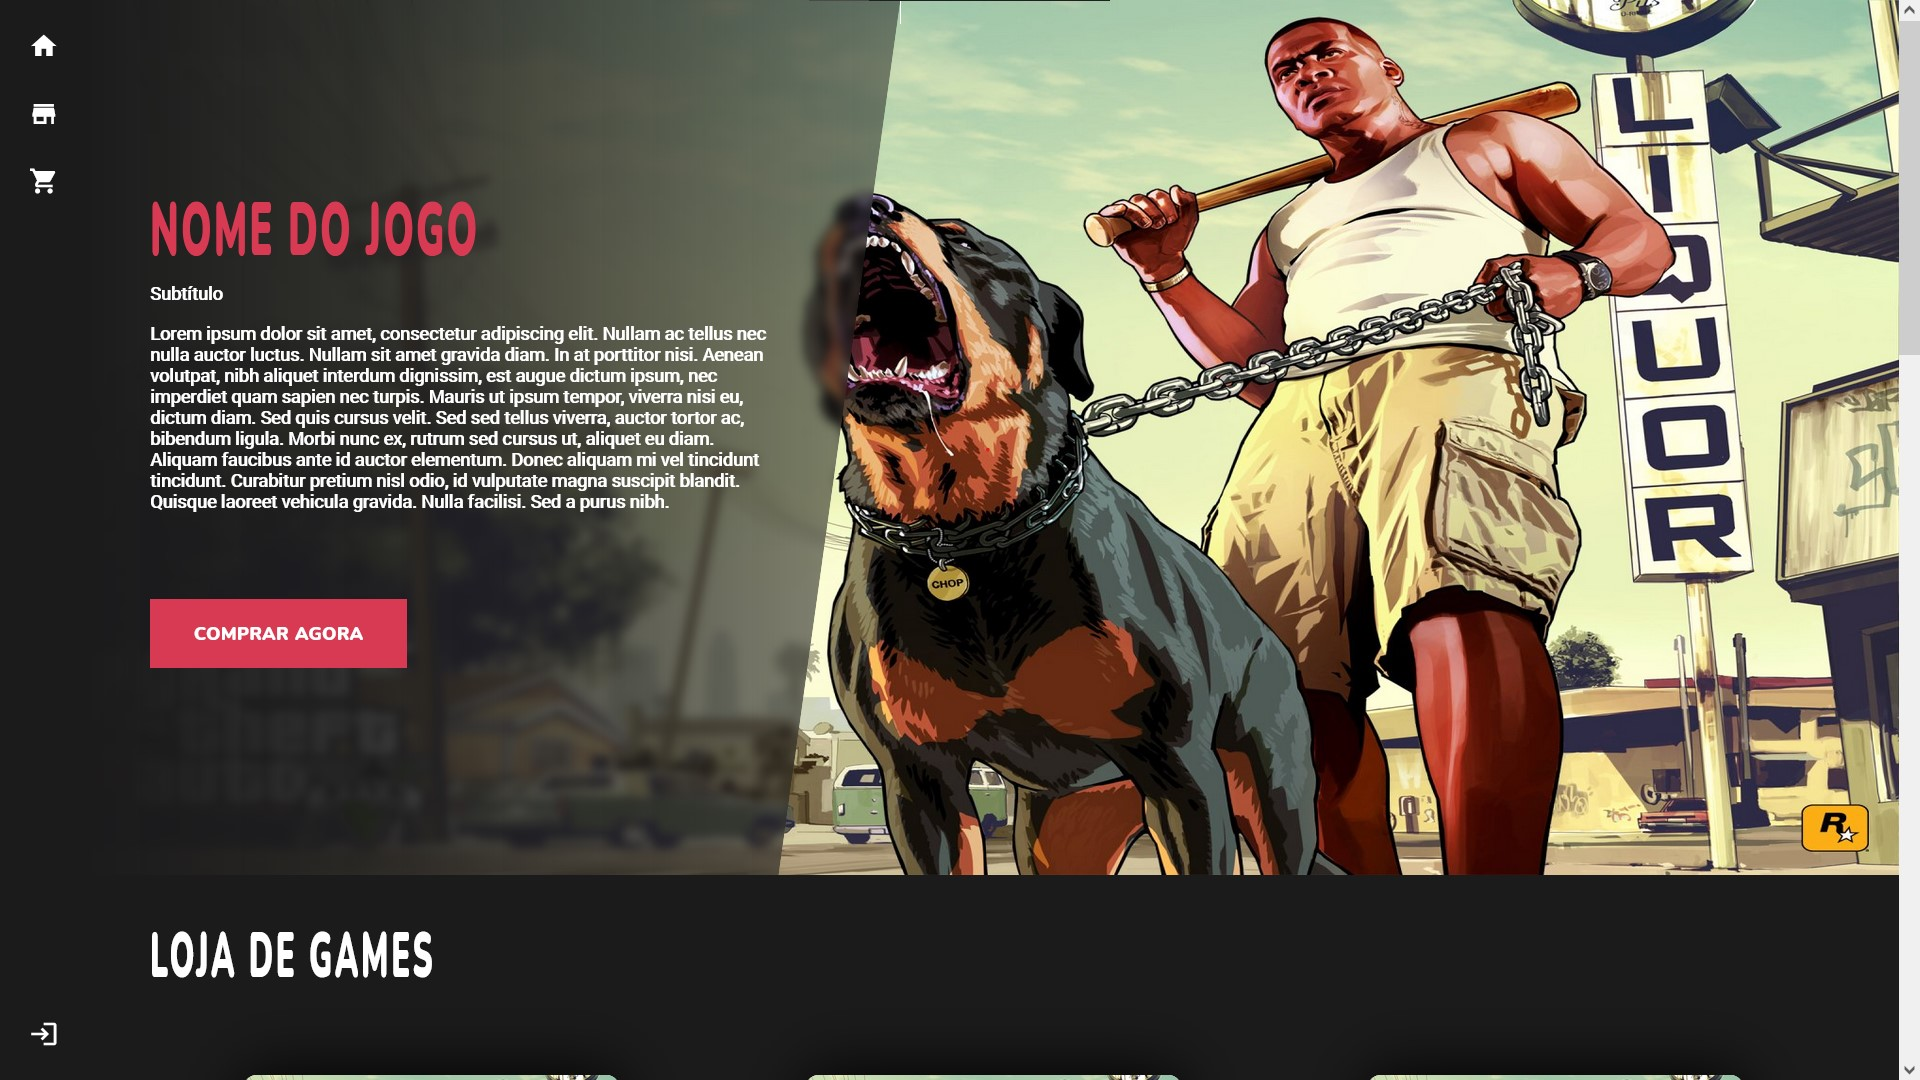
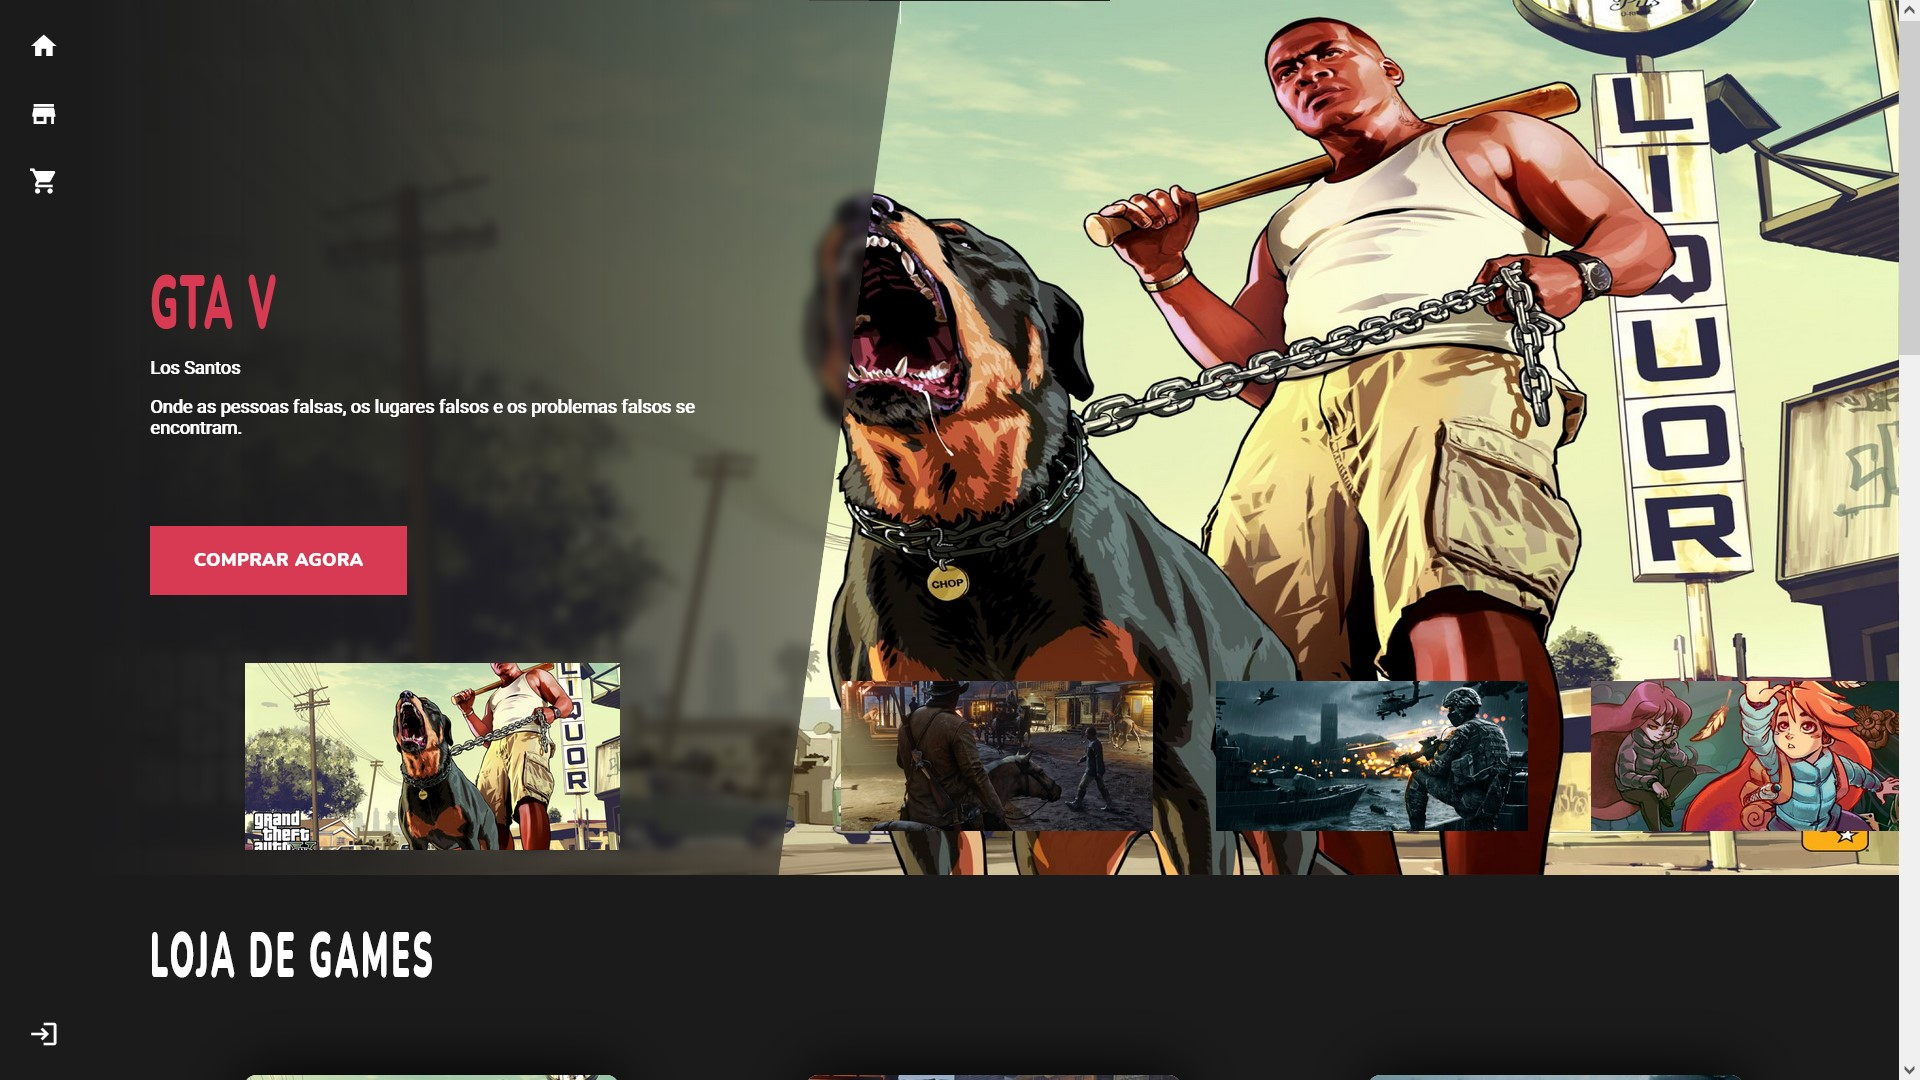
Início do carousel, imagem github atualizada

diff --git a/src/pages/HomePage/homePage.js b/src/pages/HomePage/homePage.js
@@ -2,6 +2,7 @@ import "./homePage.css";
 
 import ProductCard from "./components/productCard";
 import ItemContainer from "./components/itemContainer";
+import Carousel from "./components/carouselItem";
 
 import background_card1 from "../../assets/homePage_images/img1.jpg";
 import background_card2 from "../../assets/homePage_images/img2.jpg";
@@ -59,7 +60,55 @@ function HomePage() {
         <div className="session_2" />
 
         {/* Carousel */}
-        <div className="carousel" />
+        <div className="carousel">
+          <div className="carousel_selected">
+            <Carousel
+              isActive
+              img={background_card1}
+              isXbox
+              isPS
+              isPC
+            />
+          </div>
+          <div className="carousel_items">
+            <Carousel
+              img={background_card2}
+              isPC
+            />
+            <Carousel
+              img={background_card3}
+              isAndroid
+            />
+            <Carousel
+              img={background_card4}
+              isSwitch
+            />
+            <Carousel
+              img={background_card3}
+              isAndroid
+            />
+            <Carousel
+              img={background_card3}
+              isAndroid
+            />
+            <Carousel
+              img={background_card3}
+              isAndroid
+            />
+            <Carousel
+              img={background_card3}
+              isAndroid
+            />
+            <Carousel
+              img={background_card3}
+              isAndroid
+            />
+            <Carousel
+              img={background_card3}
+              isAndroid
+            />
+          </div>
+        </div>
 
       </div>
       {/* Fim do Cabeçalho */}

diff --git a/src/pages/HomePage/homePage.css b/src/pages/HomePage/homePage.css
@@ -61,6 +61,38 @@
     }
     /* Fim da sessão 2 */
 
+    /* Início do carousel */
+    .jumbotron .carousel {
+        width: 100%;
+        height: 150px;
+
+        overflow-x: hidden;
+
+        position: absolute;
+        display: grid;
+        grid-template-columns: 552.5px auto;
+        grid-template-rows: 150px;
+        grid-template-areas: 'selected items';
+
+        bottom: 20px;
+    }
+
+    .jumbotron .carousel .carousel_selected {
+        grid-area: selected;
+    
+        display: flex;
+        justify-content: center;
+    }
+
+    .jumbotron .carousel .carousel_items {
+        grid-area: items;
+        
+        display: flex;
+        align-items: center;
+        justify-content: space-evenly;
+    }
+    /* Fim do carousel */
+
 /* Fim do cabeçalho */
 
 /* Início do container 1 */

diff --git a/src/pages/HomePage/components/productCard.css b/src/pages/HomePage/components/productCard.css
@@ -85,8 +85,21 @@
 .product_card .card_body .body_platforms .platform_item {
     padding: 8px;
 
-    border-radius: 10px; 
-    border: 3px solid black;
+    color: white;
+    font-family: 'Roboto', sans-serif;
+    font-weight: bold;
+
+    background-color: #D83953;
+
+    border: none;
+    border-radius: 10px;
+
+    cursor: pointer;
+    transition: 0.2s;
+}
+
+.product_card .card_body .body_platforms .platform_item:hover {
+    box-shadow: 3px 3px 25px #D83953;
 }
 
 .product_card .card_footer {

diff --git a/src/pages/HomePage/components/carouselItem.js b/src/pages/HomePage/components/carouselItem.js
@@ -1,0 +1,19 @@
+import './carouselItem.css';
+
+function Carousel(props) {
+    if (props.isActive) {
+        return (
+            <div className="selected_item" style={{
+                backgroundImage: `url('${props.img}')`
+            }} />
+        );
+    } else {
+        return (
+            <div className="item" style={{
+                backgroundImage: `url('${props.img}')`
+            }} />
+        );
+    }
+}
+
+export default Carousel;

diff --git a/src/pages/HomePage/components/carouselItem.css b/src/pages/HomePage/components/carouselItem.css
@@ -1,0 +1,20 @@
+.carousel_selected .selected_item {
+    height: 100%;
+    width: 300px;
+
+    background-repeat: no-repeat;
+    background-position: center;
+    background-size: cover;
+}
+
+.carousel_items .item {
+    height: 80%;
+    width: 250px;
+
+    background-repeat: no-repeat;
+    background-position: center;
+    background-size: cover;
+    float: left;
+
+    margin-left: 50px;
+}

diff --git a/src/pages/HomePage/components/productCard.js b/src/pages/HomePage/components/productCard.js
@@ -28,8 +28,6 @@ function ProductCard(props) {
     const isSwitch = props.isSwitch;
     const isAndroid = props.isAndroid;
 
-    alert(props.img);
-
     return (
         <div className="product_card">
             <div className="card_header">
